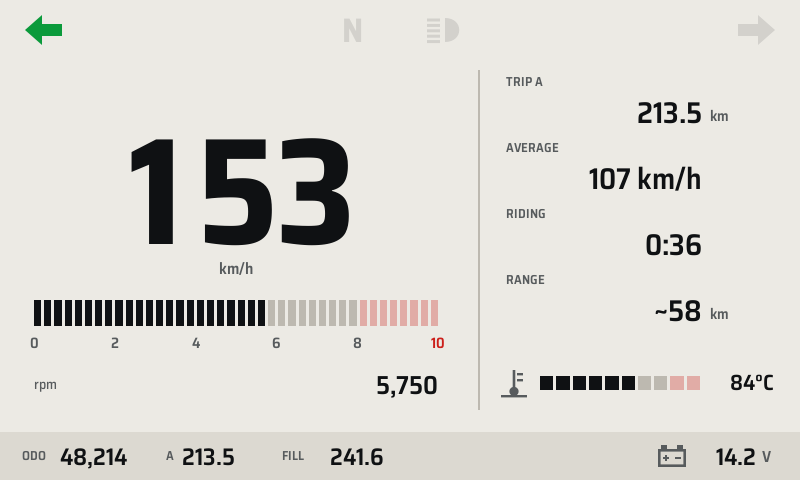
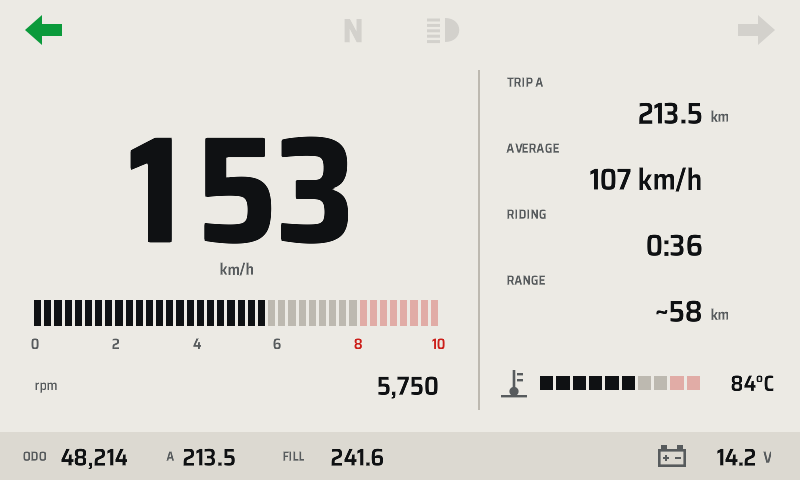
Reference screens for other panel sizes
800x480 screens regenerated with distance-field glyphs, and new folders
for 1024x600, 1280x720, 1280x400, 1920x480, 1920x720 and a 400x1280
panel mounted on its side.

Claude-Session: https://claude.ai/code/session_01G9D4Wshjz9MkaThp4wsrGP

diff --git a/crates/tdm-dash/build.rs b/crates/tdm-dash/build.rs
@@ -1,10 +1,12 @@
-/// Every font size used in ui/dash.slint. Sizes passed through component
-/// properties are invisible to Slint's analysis, so they are listed here.
-const FONT_SIZES: &str = "12,13,14,15,16,17,18,19,20,21,22,24,26,28,30,34,64,72,152,200";
+/// Font sizes used in ui/dash.slint at scale 1. Glyphs are embedded as
+/// signed distance fields at one resolution chosen from the smallest and
+/// largest of these, and drawn at any size (docs/adr/0013); sizes passed
+/// through component properties are invisible to Slint's analysis, so the
+/// extremes are listed here.
+const FONT_SIZES: &str = "12,13,14,15,16,17,18,19,20,21,22,24,26,28,30,34,42,64,72,152,200";
 
 fn main() {
-    // Glyphs are pre-rendered at these sizes, so the binary needs neither
-    // fontconfig nor a font rasteriser at run time.
+    // The binary needs neither fontconfig nor a font rasteriser at run time.
     // SAFETY: build scripts are single-threaded at this point.
     unsafe { std::env::set_var("SLINT_FONT_SIZES", FONT_SIZES) };
     println!("cargo:rerun-if-changed=ui");
